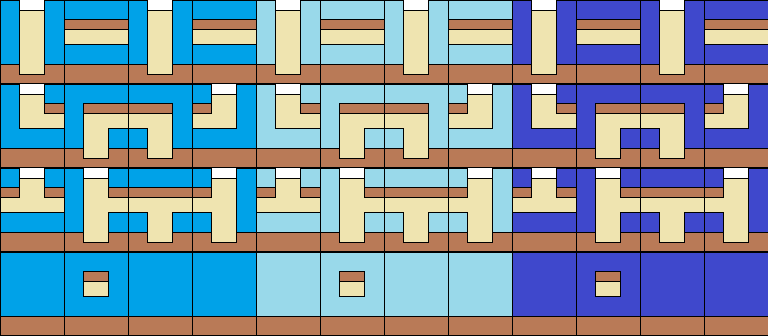
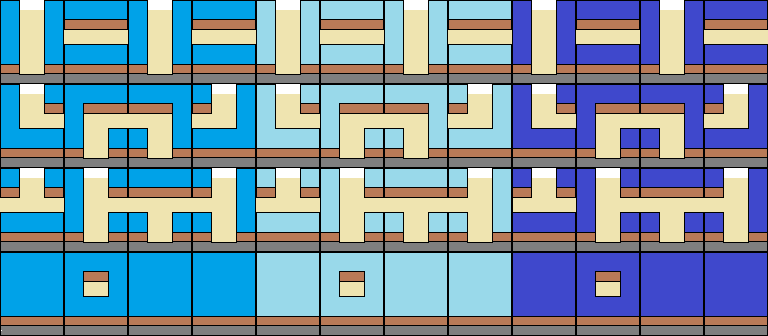
Modifications mineures
J'arrive pas à dormir -_-

diff --git a/src/com/labyrinth/game/GameBoard.java b/src/com/labyrinth/game/GameBoard.java
@@ -30,6 +30,7 @@ public class GameBoard extends BasicGameState implements PlayerListener{
 
 	private Origin origin;
 	private List<Player> players = new ArrayList<Player>();
+	private List<Objective> objectives = new ArrayList<Objective>();
 	
 	private int joueur_en_cours = 0;
 	
@@ -43,10 +44,10 @@ public class GameBoard extends BasicGameState implements PlayerListener{
 		SpriteGUI wall_texture = new SpriteGUI("images/murs/wall.png", 12, 4);
 		SpriteGUI player_texture = new SpriteGUI("images/items/player.png", 1, 1);
 		this.objective_textures = new SpriteGUI("images/items/objective.png", 1, 1);
-		
+		this.origin.setWidth(wall_texture.getTileWidth());
 		this.players = new ArrayList<Player>();		
 		
-		this.labyrinth = new Maze(11, 11, this.origin, wall_texture);
+		this.labyrinth = new Maze(21, 21, this.origin, wall_texture);
 		
 		Player p1 = new HumanPlayer(0, "test", this.origin, player_texture, this.labyrinth.getWall(0, 0), this);
 		Player p2 = new HumanPlayer(0, "test2", this.origin, player_texture, this.labyrinth.getWall(this.labyrinth.getNumberOfCollumn() - 1, this.labyrinth.getNumberOfLine() - 1), this);
@@ -58,9 +59,32 @@ public class GameBoard extends BasicGameState implements PlayerListener{
 		
 		this.joueur_en_cours = 0;
 		
-		this.players.get(this.joueur_en_cours).beginOfRound();
 		this.input = arg0.getInput();
 		
+		int mx = this.labyrinth.getNumberOfCollumn();
+		int my = this.labyrinth.getNumberOfLine();
+		
+		for(int i = 0; i < this.players.size() * 5; i++){
+			Wall w;
+			boolean wall_already_used;
+			
+			do{
+				wall_already_used = false;
+				w = this.labyrinth.getWall((int)(Math.random() * mx), (int)(Math.random() * my));
+				for(int j = 0; j < this.objectives.size(); j++){
+					if(w == this.objectives.get(j).getPosition()) wall_already_used = true;
+				}
+				
+			}while(wall_already_used);
+			this.objectives.add(new Objective(this.origin, w, objective_textures));
+		}
+		
+		p1.setPlayerObjective(this.objectives.get(0));
+		p2.setPlayerObjective(this.objectives.get(1));
+		p3.setPlayerObjective(this.objectives.get(2));
+
+		this.players.get(this.joueur_en_cours).beginOfRound();
+
 	}
 
 	@Override
@@ -68,11 +92,15 @@ public class GameBoard extends BasicGameState implements PlayerListener{
 			throws SlickException {
 		this.labyrinth.render(arg0, arg2);
 		
+		for(Objective o : objectives){
+			o.render(arg0, arg2);
+		}
+
 		for(Player j : players){
 			j.render(arg0, arg2);
 		}
 		
-		this.labyrinth.getAdditionalWall().render(0, 0, 1.0f, 1.0f);
+		this.labyrinth.getAdditionalWall().render(0, 0, 150);
 		
 
 	}
@@ -107,9 +135,9 @@ public class GameBoard extends BasicGameState implements PlayerListener{
 			
 		}
 		
-		float taux = 0.01f;
-		if(in.isKeyPressed(Input.KEY_P)) this.origin.setOriginUnit(this.origin.getSizeX() + taux , this.origin.getSizeX() + taux);
-		if(in.isKeyPressed(Input.KEY_M)) this.origin.setOriginUnit(this.origin.getSizeX() - taux , this.origin.getSizeX() - taux);
+		int taux = 2;
+		if(in.isKeyPressed(Input.KEY_P)) this.origin.setWidth(this.origin.getWidth() + taux);
+		if(in.isKeyPressed(Input.KEY_M)) this.origin.setWidth(this.origin.getWidth() - taux);
 		
 		if(in.isKeyPressed(Input.KEY_TAB)){
 			this.labyrinth.rotateAdditionalWall();
@@ -169,18 +197,18 @@ public class GameBoard extends BasicGameState implements PlayerListener{
 	public void mouseWheelMoved(int move){
 		
 		if(move != 0){
-			float scale = this.origin.getSizeX();
+			int old_width = this.origin.getWidth();
 			if(move < 0){
-				this.origin.setOriginUnit(scale - 0.02f, scale - 0.02f);
+				this.origin.setWidth(old_width - 2);
 			}
 			if(move > 0){
-				this.origin.setOriginUnit(scale + 0.02f, scale + 0.02f);
+				this.origin.setWidth(old_width + 2);
 			}
 			
 			int mx = this.input.getMouseX();
 			int my = this.input.getMouseY();
-			int x2 = (int) (mx - (mx - this.origin.getOX()) * this.origin.getSizeX() / scale);
-			int y2 = (int) (my - (my - this.origin.getOY()) * this.origin.getSizeY() / scale);
+			int x2 = (int) (mx - (mx - this.origin.getOX()) * this.origin.getWidth() / old_width);
+			int y2 = (int) (my - (my - this.origin.getOY()) * this.origin.getWidth() / old_width);
 			
 			this.origin.setOriginPosition(x2, y2);
 			
@@ -198,9 +226,8 @@ public class GameBoard extends BasicGameState implements PlayerListener{
 	@Override
 	public void playerWantsToMove(int mouse_x, int mouse_y) {
 
-		float scale = this.origin.getSizeX(); 
-		int x = (int) ((mouse_x - this.origin.getOX()) / (64 * scale));
-		int y = (int) ((mouse_y - this.origin.getOY()) / (64 * scale));
+		int x = (int) ((mouse_x - this.origin.getOX()) / (this.origin.getWidth()));
+		int y = (int) ((mouse_y - this.origin.getOY()) / (this.origin.getWidth()));
 		
 		if(x >= 0 && x <= this.labyrinth.getNumberOfCollumn() - 1 && y >= 0 && y <= this.labyrinth.getNumberOfLine() - 1){			
 			this.labyrinth.resetWeightGraph();

diff --git a/src/com/labyrinth/game/player/Player.java b/src/com/labyrinth/game/player/Player.java
@@ -41,8 +41,6 @@ public abstract class Player {
 		
 		this.listeners = new ArrayList<PlayerListener>();
 		this.listeners.add(listener);
-		
-		this.createNewObjective();
 	}
 	
 	public Wall getPosition(){
@@ -76,18 +74,16 @@ public abstract class Player {
 		return this.player_id;
 	}
 	
-	public void createNewObjective(){
-		for(PlayerListener p : listeners){
-			this.player_objetive = p.playerWantsNewObjective();
-		}
-	}
-	
 	public void beginOfRound(){
 		this.player_objetive.active(true);
 	}
 	
 	public void endOfRound(){
 		this.player_objetive.active(false);
+	}
+	
+	public void setPlayerObjective(Objective o){
+		this.player_objetive = o;
 	}
 	
 	public String getPlayerName(){
@@ -101,13 +97,11 @@ public abstract class Player {
 	public void render(GameContainer gc, Graphics g) {
 
 		this.player_objetive.update();
-		this.player_objetive.render(gc, g);
 		
-		int x = (int) (this.position.getCoordinateX() * 64 * this.origin.getSizeX() + this.origin.getOX());
-		int y = (int) (this.position.getCoordinateY() * 64 * this.origin.getSizeX() + this.origin.getOY());
+		int x = (int) (this.position.getCoordinateX() * this.origin.getWidth() + this.origin.getOX());
+		int y = (int) (this.position.getCoordinateY() * this.origin.getWidth() + this.origin.getOY());
 		
-		
-		this.textures.getSpriteAt(0, 0, this.origin.getSizeX()).draw(x, y);
+		this.textures.getSpriteAt(0, 0, this.origin.getWidth()).draw(x, y);
 	}
 	
 	public abstract void update(GameContainer gc);

diff --git a/src/com/labyrinth/gui/SpriteGUI.java b/src/com/labyrinth/gui/SpriteGUI.java
@@ -7,18 +7,25 @@ import org.newdawn.slick.SpriteSheet;
 public class SpriteGUI {
 	
 	private SpriteSheet sprites;
+	private int tile_width;
+	private float ratio_width_height = 1.0f;
 	
 	public SpriteGUI(String url, int nbr_column, int nbr_line) throws SlickException{
-		
 		Image image = new Image(url);
 		image.setFilter(Image.FILTER_NEAREST);
 		
+		this.tile_width = image.getWidth() / nbr_column;
+		this.ratio_width_height = (image.getHeight() / (nbr_line * 1.0f)) / (image.getWidth() / (nbr_column* 1.0f));
+		System.out.println("ratio = " + this.ratio_width_height);
 		this.sprites = new SpriteSheet(image, image.getWidth() / nbr_column, image.getHeight() / nbr_line);
 		
 	}
 	
-	public Image getSpriteAt(int x, int y, float scale){
-		return this.sprites.getSprite(x, y).getScaledCopy(scale);
+	public Image getSpriteAt(int x, int y, int width){
+		return this.sprites.getSprite(x, y).getScaledCopy(width, (int) (width * this.ratio_width_height));
 	}
 
+	public int getTileWidth(){
+		return this.tile_width;
+	}
 }

diff --git a/src/com/labyrinth/game/maze/Wall.java b/src/com/labyrinth/game/maze/Wall.java
@@ -90,14 +90,13 @@ public class Wall extends GraphVertex{
 		
 	}
 	
-	public void render(int posx, int posy, float unix, float uniy){
+	public void render(int posx, int posy, int width){
 
 		if(this.pushable){
-			this.textures.getSpriteAt(this.angle, this.wall_type, unix).draw(this.coordinates_x * 64 * unix + posx, this.coordinates_y * 64 * unix + posy);
+			this.textures.getSpriteAt(this.angle, this.wall_type, width).draw(this.coordinates_x * width + posx, this.coordinates_y * width + posy);
 		}else{
-			this.textures.getSpriteAt(this.angle + 8, this.wall_type, unix).draw(this.coordinates_x * 64 * unix + posx, this.coordinates_y * 64 * unix + posy);
+			this.textures.getSpriteAt(this.angle + 8, this.wall_type, width).draw(this.coordinates_x * width + posx, this.coordinates_y * width + posy);
 		}
-//		System.out.println(posx + "-" + posy);
 		
 	}
 

diff --git a/src/com/labyrinth/game/Origin.java b/src/com/labyrinth/game/Origin.java
@@ -3,19 +3,23 @@ package com.labyrinth.game;
 public class Origin{
 
 	private int position_x =  0, position_y = 0;
-	private float unite_x = 1.0f, unite_y = 1.0f;
+	private int width;
 	
 	public void setOriginPosition(int x, int y){
 		this.position_x = x;
 		this.position_y = y;
 	}
 	
-	public void setOriginUnit(float x, float y){
-		if(x < 0.2f) x = 0.2f;
-		if(y < 0.2f) y = 0.2f;
+	public void setWidth(int width){
 		
-		this.unite_x = x;
-		this.unite_y = y;
+		if(width < 30) width = 30;
+		if(width > 100) width = 100;
+		this.width = width;
+		
+	}
+	
+	public int getWidth(){
+		return this.width;
 	}
 	
 	public int getOX(){
@@ -25,13 +29,5 @@ public class Origin{
 	public int getOY(){
 		return this.position_y;
 	}
-
-	public float getSizeX(){
-		return this.unite_x;
-	}
 	
-	public float getSizeY(){
-		return this.unite_y;
-	}
-
 }

diff --git a/src/com/labyrinth/objective/Objective.java b/src/com/labyrinth/objective/Objective.java
@@ -30,10 +30,10 @@ public class Objective {
 
 	public void render(GameContainer gc, Graphics g) {
 		
-		int x = (int) (this.position.getCoordinateX() * 64 * this.origin.getSizeX() + this.origin.getOX());
-		int y = (int) (this.position.getCoordinateY() * 64 * this.origin.getSizeX() + this.origin.getOY());
+		int x = (int) (this.position.getCoordinateX() * this.origin.getWidth() + this.origin.getOX());
+		int y = (int) (this.position.getCoordinateY() * this.origin.getWidth() + this.origin.getOY());
 		
-		this.textures.getSpriteAt(0, 0, this.origin.getSizeX() * this.getScale()).draw(x, y);
+		this.textures.getSpriteAt(0, 0, (int) (this.origin.getWidth() * this.getScale())).draw(x, y);
 		
 	}
 

diff --git a/src/com/labyrinth/game/maze/Maze.java b/src/com/labyrinth/game/maze/Maze.java
@@ -104,11 +104,10 @@ public class Maze {
 		
 		int coox = this.origin.getOX();
 		int cooy = this.origin.getOY();
-		float unix = this.origin.getSizeX();
-		float uniy = this.origin.getSizeY();
+		int width = this.origin.getWidth();
 		for(int i = 0; i < this.walls.length; i++){
 			for(int j = 0; j < this.walls[i].length; j++){
-				this.walls[i][j].render(coox, cooy, unix, uniy);
+				this.walls[i][j].render(coox, cooy, width);
 			}
 		}
 	}
